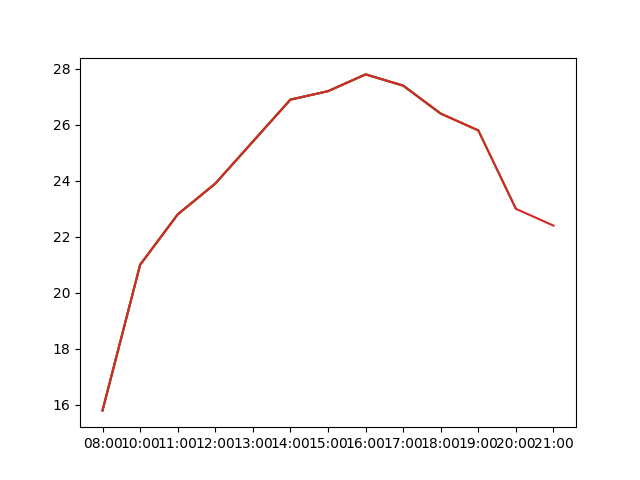
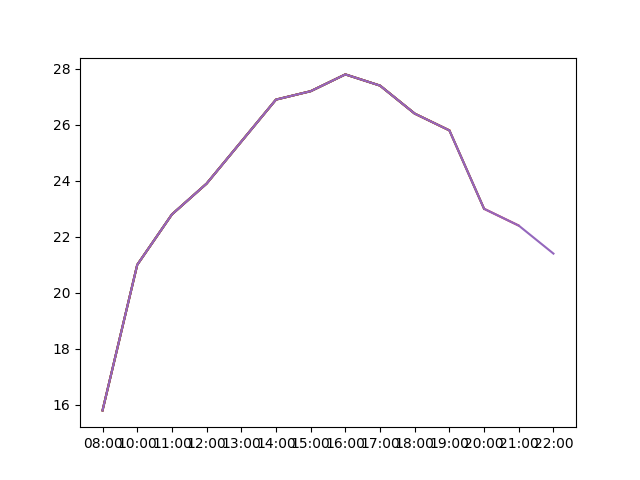
'updated'

diff --git a/index.html b/index.html
@@ -1,2 +1,2 @@
 <img src='graph.png'> 
-<table border="1"><tr><th>data</th><td><table border="1"><thead><tr><th>date</th><th>hour</th><th>weather</th><th>visibility</th><th>temp</th><th>unk</th><th>humidity</th><th>wind</th><th>pressure</th></tr></thead><tbody><tr><td>03-Abril-2021</td><td>08:00</td><td>Algo nublado con banco delgado de niebla</td><td>8 km</td><td>15.8</td><td>No se calcula</td><td>92.0</td><td>Sur  3</td><td>1014.5</td></tr><tr><td>03-Abril-2021</td><td>10:00</td><td>Despejado</td><td>15 km</td><td>21.0</td><td>No se calcula</td><td>71.0</td><td>Noreste  11</td><td>1014.8</td></tr><tr><td>03-Abril-2021</td><td>11:00</td><td>Despejado</td><td>15 km</td><td>22.8</td><td>No se calcula</td><td>66.0</td><td>Este  5</td><td>1014.6</td></tr><tr><td>03-Abril-2021</td><td>12:00</td><td>Algo nublado</td><td>15 km</td><td>23.9</td><td>No se calcula</td><td>61.0</td><td>Noreste  7</td><td>1014.2</td></tr><tr><td>03-Abril-2021</td><td>13:00</td><td>Algo nublado</td><td>15 km</td><td>25.4</td><td>No se calcula</td><td>55.0</td><td>Este  5</td><td>1013.6</td></tr><tr><td>03-Abril-2021</td><td>14:00</td><td>Algo nublado</td><td>15 km</td><td>26.9</td><td>27.3</td><td>49.0</td><td>Noreste  5</td><td>1012.8</td></tr><tr><td>03-Abril-2021</td><td>15:00</td><td>Algo nublado</td><td>15 km</td><td>27.2</td><td>26.4</td><td>42.0</td><td>Noreste  13</td><td>1012.0</td></tr><tr><td>03-Abril-2021</td><td>16:00</td><td>Algo nublado</td><td>15 km</td><td>27.8</td><td>No se calcula</td><td>36.0</td><td>Sudeste  9</td><td>1011.4</td></tr><tr><td>03-Abril-2021</td><td>17:00</td><td>Algo nublado</td><td>15 km</td><td>27.4</td><td>No se calcula</td><td>38.0</td><td>Este  7</td><td>1011.3</td></tr><tr><td>03-Abril-2021</td><td>18:00</td><td>Despejado</td><td>15 km</td><td>26.4</td><td>No se calcula</td><td>39.0</td><td>Sur  9</td><td>1011.3</td></tr><tr><td>03-Abril-2021</td><td>19:00</td><td>Despejado</td><td>15 km</td><td>25.8</td><td>No se calcula</td><td>43.0</td><td>Calma</td><td>1011.4</td></tr><tr><td>03-Abril-2021</td><td>20:00</td><td>Despejado</td><td>15 km</td><td>23.0</td><td>No se calcula</td><td>58.0</td><td>Sur  5</td><td>1011.8</td></tr><tr><td>03-Abril-2021</td><td>21:00</td><td>Algo nublado</td><td>15 km</td><td>22.4</td><td>No se calcula</td><td>62.0</td><td>Sur  7</td><td>1012.2</td></tr></tbody></table></td></tr></table>
+<table border="1"><tr><th>data</th><td><table border="1"><thead><tr><th>date</th><th>hour</th><th>weather</th><th>visibility</th><th>temp</th><th>unk</th><th>humidity</th><th>wind</th><th>pressure</th></tr></thead><tbody><tr><td>03-Abril-2021</td><td>08:00</td><td>Algo nublado con banco delgado de niebla</td><td>8 km</td><td>15.8</td><td>No se calcula</td><td>92.0</td><td>Sur  3</td><td>1014.5</td></tr><tr><td>03-Abril-2021</td><td>10:00</td><td>Despejado</td><td>15 km</td><td>21.0</td><td>No se calcula</td><td>71.0</td><td>Noreste  11</td><td>1014.8</td></tr><tr><td>03-Abril-2021</td><td>11:00</td><td>Despejado</td><td>15 km</td><td>22.8</td><td>No se calcula</td><td>66.0</td><td>Este  5</td><td>1014.6</td></tr><tr><td>03-Abril-2021</td><td>12:00</td><td>Algo nublado</td><td>15 km</td><td>23.9</td><td>No se calcula</td><td>61.0</td><td>Noreste  7</td><td>1014.2</td></tr><tr><td>03-Abril-2021</td><td>13:00</td><td>Algo nublado</td><td>15 km</td><td>25.4</td><td>No se calcula</td><td>55.0</td><td>Este  5</td><td>1013.6</td></tr><tr><td>03-Abril-2021</td><td>14:00</td><td>Algo nublado</td><td>15 km</td><td>26.9</td><td>27.3</td><td>49.0</td><td>Noreste  5</td><td>1012.8</td></tr><tr><td>03-Abril-2021</td><td>15:00</td><td>Algo nublado</td><td>15 km</td><td>27.2</td><td>26.4</td><td>42.0</td><td>Noreste  13</td><td>1012.0</td></tr><tr><td>03-Abril-2021</td><td>16:00</td><td>Algo nublado</td><td>15 km</td><td>27.8</td><td>No se calcula</td><td>36.0</td><td>Sudeste  9</td><td>1011.4</td></tr><tr><td>03-Abril-2021</td><td>17:00</td><td>Algo nublado</td><td>15 km</td><td>27.4</td><td>No se calcula</td><td>38.0</td><td>Este  7</td><td>1011.3</td></tr><tr><td>03-Abril-2021</td><td>18:00</td><td>Despejado</td><td>15 km</td><td>26.4</td><td>No se calcula</td><td>39.0</td><td>Sur  9</td><td>1011.3</td></tr><tr><td>03-Abril-2021</td><td>19:00</td><td>Despejado</td><td>15 km</td><td>25.8</td><td>No se calcula</td><td>43.0</td><td>Calma</td><td>1011.4</td></tr><tr><td>03-Abril-2021</td><td>20:00</td><td>Despejado</td><td>15 km</td><td>23.0</td><td>No se calcula</td><td>58.0</td><td>Sur  5</td><td>1011.8</td></tr><tr><td>03-Abril-2021</td><td>21:00</td><td>Algo nublado</td><td>15 km</td><td>22.4</td><td>No se calcula</td><td>62.0</td><td>Sur  7</td><td>1012.2</td></tr><tr><td>03-Abril-2021</td><td>22:00</td><td>Algo nublado</td><td>15 km</td><td>21.4</td><td>No se calcula</td><td>68.0</td><td>Calma</td><td>1012.8</td></tr></tbody></table></td></tr></table>
